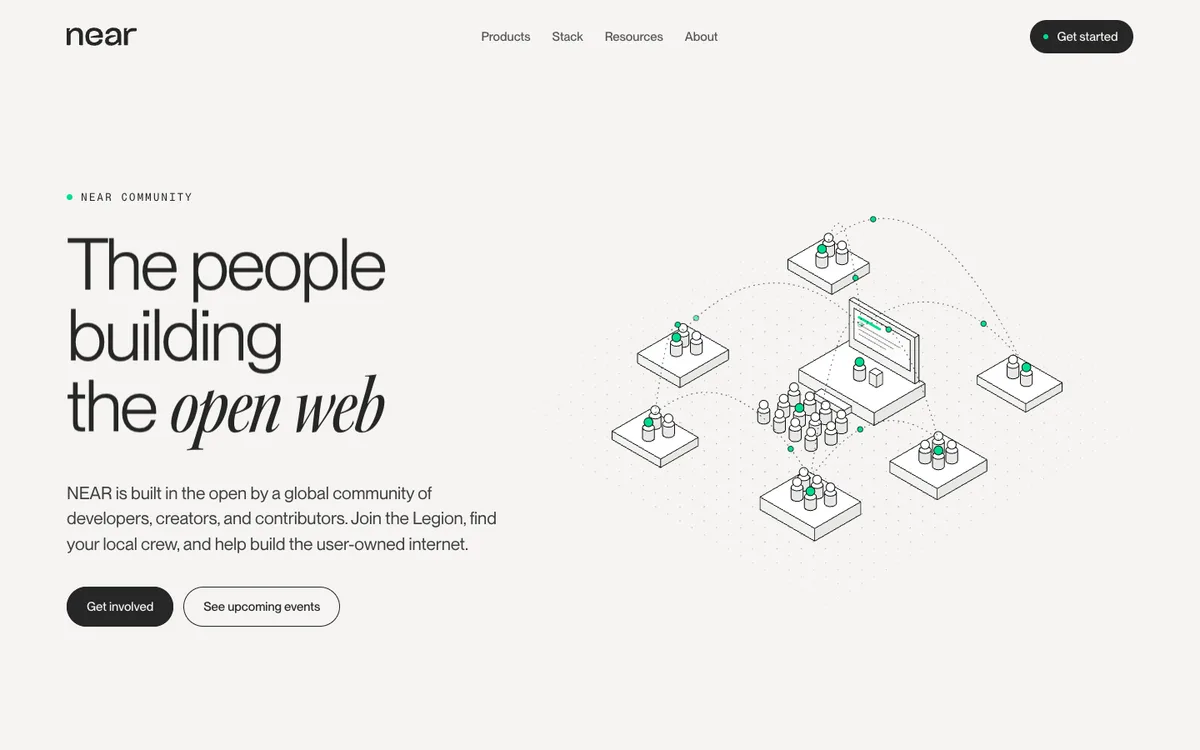
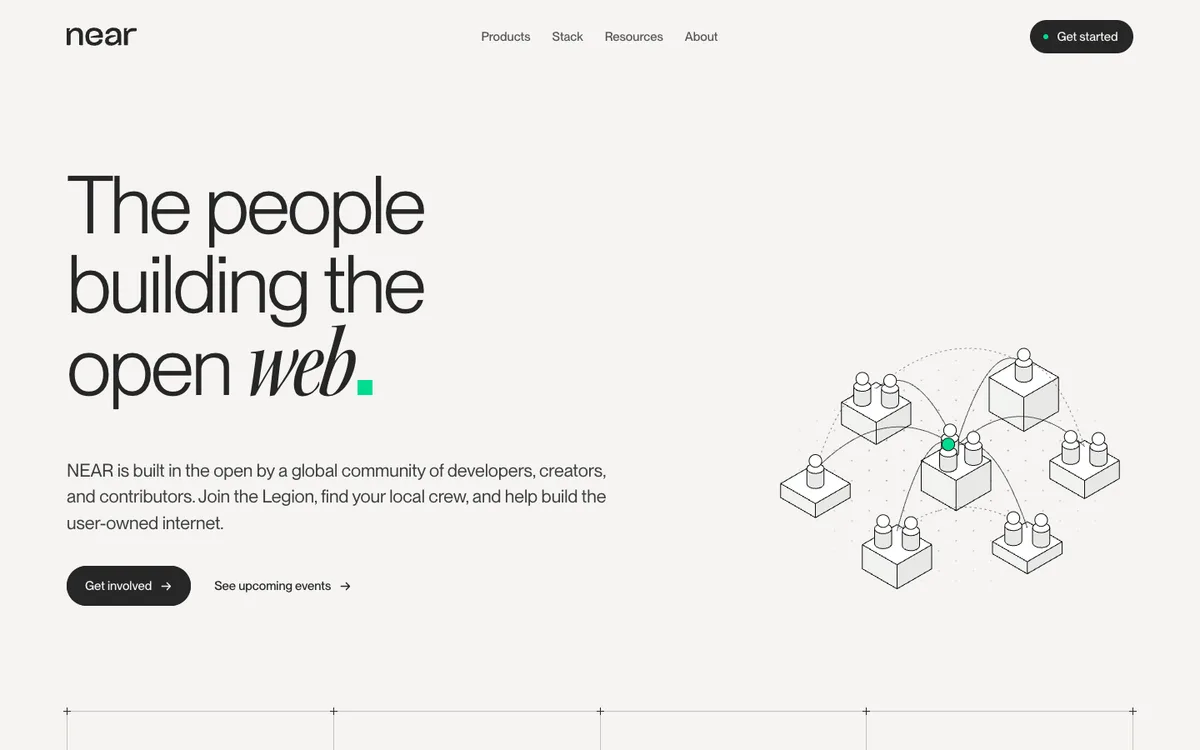
feat(site): make the X versions the menu's pages
Analytics, Economics, History, Community, Solutions and Research now
serve their X (MVP) versions at the plain addresses the header links to.
/<page>-x redirects there (temporary). The versions they replaced are
back at their letters: /analytics-c, /economics-a, /history-c,
/community-b (their old permanent redirects are removed; /about-c now
leads to /history-c).

Version switches, /extra (X featured) and /index (one card per page,
new captures) follow; README updated.

Claude-Session: https://claude.ai/code/session_01BP4thZShxhMPXvDKsf86ix

diff --git a/src/app/(site)/extra/pages.ts b/src/app/(site)/extra/pages.ts
@@ -30,69 +30,69 @@ export const GROUPS: Group[] = [
   {
     id: "analytics",
     title: "Analytics",
-    note: "near.org/analytics in the official pages' hand (the homepage, Blog J), five versions of the doc's lean overview; C is /analytics, in the menu. Sample figures: no live feed yet. X is the MVP from the Nov 19 review: one version, mostly copy, no eyebrows or numerals, no grid by the header, graphics as placeholders for Ali.",
+    note: "near.org/analytics in the official pages' hand (the homepage, Blog J), five versions of the doc's lean overview, and X, the MVP. X is /analytics, in the menu (since Nov 19, 2026; C, the menu's before it, is at /analytics-c). Sample figures: no live feed yet. It is the MVP from the Nov 19 review: one version, mostly copy, no eyebrows or numerals, no grid by the header, graphics as placeholders for Ali.",
     pages: [
       { href: "/analytics-a", n: "A", name: "Analytics · Overview", note: "The doc read literally on the ruled grid: three core stats, the revenue and status cards side by side, the tools, SVRN and the ETPs. Quiet motion: rows draw in, numbers count up once.", tags: ["Ruled grid", "Top 3 stats", "Quiet"], img: "/extra/analytics-a.webp" },
       { href: "/analytics-b", n: "B", name: "Analytics · Instrument panel", note: "Mono and tabular: all five stats in a ticker beside the headline, a revenue chart with a crosshair readout, status.near.org-style uptime bars with tooltips, the tools as a dense table.", tags: ["Ticker", "Chart readouts", "Uptime bars"], img: "/extra/analytics-b.webp" },
-      { href: "/analytics", n: "C", name: "Analytics · Ruled grid", note: "The homepage's ruled grid and Blog J's ruled hero: the doc's page as rows of cells with crosshairs, mono labels and the Kepler accent; revenue and network health side by side on the paper.", tags: ["Ruled grid", "Homepage hand"], img: "/extra/analytics-c.webp", featured: true },
+      { href: "/analytics-c", n: "C", name: "Analytics · Ruled grid", note: "The homepage's ruled grid and Blog J's ruled hero: the doc's page as rows of cells with crosshairs, mono labels and the Kepler accent; revenue and network health side by side on the paper.", tags: ["Ruled grid", "Homepage hand"], img: "/extra/analytics-c.webp" },
       { href: "/analytics-d", n: "D", name: "Analytics · Drawn", note: "NEAR Foundation's isometric hand: the numbers and the products told with line drawings that build as you scroll.", tags: ["Iso drawings", "Foundation hand"], img: "/extra/analytics-d.webp" },
       { href: "/analytics-e", n: "E", name: "Analytics · Editorial", note: "The homepage's big type and dark bands (the Stack, the Council): a calm editorial read with one dark band for the network.", tags: ["Editorial", "Dark band"], img: "/extra/analytics-e.webp" },
-      { href: "/analytics-x", n: "X", name: "Analytics · MVP", note: "D simplified for the MVP: mostly copy, two drawings kept (hero plinth, Go deeper hub) as placeholders, no eyebrows or numerals, the homepage's ruled grid from the stats down (heads, Go deeper and the products included), two dot icons.", tags: ["MVP", "Drawn, simplified", "Grid"], img: "/extra/analytics-x.webp" },
+      { href: "/analytics", n: "X", name: "Analytics · MVP", note: "D simplified for the MVP: mostly copy, two drawings kept (hero plinth, Go deeper hub) as placeholders, no eyebrows or numerals, the homepage's ruled grid from the stats down (heads, Go deeper and the products included), two dot icons.", tags: ["MVP", "Drawn, simplified", "Grid"], img: "/extra/analytics-x.webp", featured: true },
     ],
   },
   {
     id: "community",
     title: "Community",
-    note: "near.org/community from the October 2026 doc (Revamp: Layout & Copy), three versions in the official pages' hand. Sample figures and events until the real ones and the Luma feed are in. B is /community, in the menu. X is the MVP from the Nov 19 review: one version, mostly copy, no eyebrows or numerals, no grid by the header, graphics as placeholders for Ali.",
+    note: "near.org/community from the October 2026 doc (Revamp: Layout & Copy), three versions in the official pages' hand. Sample figures and events until the real ones and the Luma feed are in. X is /community, in the menu (since Nov 19, 2026; B, the menu's before it, is at /community-b). It is the MVP from the Nov 19 review: one version, mostly copy, no eyebrows or numerals, no grid by the header, graphics as placeholders for Ali.",
     pages: [
       { href: "/community-a", n: "A", name: "Community · Ruled grid", note: "The homepage's ruled grid and Blog J's ruled hero: stats, events, the Legion, socials and the ways in as rows of cells with crosshairs.", tags: ["Ruled grid", "Homepage hand"], img: "/extra/community-a.webp" },
-      { href: "/community", n: "B", name: "Community · Drawn", note: "NEAR Foundation's isometric hand: the community as line drawings (people, places, events) that build as you scroll.", tags: ["Iso drawings", "Foundation hand"], img: "/extra/community-b.webp", featured: true },
+      { href: "/community-b", n: "B", name: "Community · Drawn", note: "NEAR Foundation's isometric hand: the community as line drawings (people, places, events) that build as you scroll.", tags: ["Iso drawings", "Foundation hand"], img: "/extra/community-b.webp" },
       { href: "/community-c", n: "C", name: "Community · Editorial", note: "The homepage's big type, photos that bleed and a dark band for the Legion: a warm editorial page.", tags: ["Editorial", "Dark band"], img: "/extra/community-c.webp" },
-      { href: "/community-x", n: "X", name: "Community · MVP", note: "C made more typographic for the MVP: no eyebrows or numerals, no grid near the header, the homepage's ruled grid round the figures, the channels and the ways, an isometric drawing of crews joined by threads in the hero, the site's dot icons on the channels.", tags: ["MVP", "Typographic", "Grid"], img: "/extra/community-x.webp" },
+      { href: "/community", n: "X", name: "Community · MVP", note: "C made more typographic for the MVP: no eyebrows or numerals, no grid near the header, the homepage's ruled grid round the figures, the channels and the ways, an isometric drawing of crews joined by threads in the hero, the site's dot icons on the channels.", tags: ["MVP", "Typographic", "Grid"], img: "/extra/community-x.webp", featured: true },
     ],
   },
   {
     id: "history",
     title: "History",
-    note: "near.org/history (History, \"From 2017 to now\" in the menu), three versions in the official pages' hand. The October 2026 doc has no copy for it: the timeline is near.org/roadmap-history's milestones, the rest adapted from the doc's Anthem Video beats (components/history/content.ts). C is /about, in the menu. X is the MVP from the Nov 19 review: one version, mostly copy, no eyebrows or numerals, no grid by the header, graphics as placeholders for Ali.",
+    note: "near.org/history (History, \"From 2017 to now\" in the menu), three versions in the official pages' hand. The October 2026 doc has no copy for it: the timeline is near.org/roadmap-history's milestones, the rest adapted from the doc's Anthem Video beats (components/history/content.ts). X is /history, in the menu (since Nov 19, 2026; C, the menu's before it, is at /history-c). It is the MVP from the Nov 19 review: one version, mostly copy, no eyebrows or numerals, no grid by the header, graphics as placeholders for Ali.",
     pages: [
       { href: "/history-a", n: "A", name: "History · Ruled grid", note: "The homepage's ruled grid and Blog J's ruled hero: an index of years, then the timeline as a ledger of entries in four chapters, with a green marker that runs down it as you read.", tags: ["Ruled grid", "Ledger", "Homepage hand"], img: "/extra/history-a.webp" },
       { href: "/history-b", n: "B", name: "History · Drawn", note: "NEAR Foundation's isometric hand: ten years as line drawings that build as you scroll, a road of years climbing to now, and today's stack on the dark.", tags: ["Iso drawings", "Foundation hand", "Timeline"], img: "/extra/history-b.webp" },
-      { href: "/history", n: "C", name: "History · Editorial", note: "The homepage's big type: the bw whiteboard bleeding into the origin essay, a sticky year that rolls as each milestone passes, the stack on a dark band.", tags: ["Editorial", "Sticky year", "Dark band"], img: "/extra/history.webp", featured: true },
-      { href: "/history-x", n: "X", name: "History · MVP", note: "MVP from the review: the years as a short sideways story after the homepage's rail (pinned, three at a time: the year on show at the centre with its text, its neighbours faint), a type-only hero, a plain Origin, Today on the ruled grid, no Ahead.", tags: ["MVP", "Rail", "Grid"], img: "/extra/history-x.webp" },
+      { href: "/history-c", n: "C", name: "History · Editorial", note: "The homepage's big type: the bw whiteboard bleeding into the origin essay, a sticky year that rolls as each milestone passes, the stack on a dark band.", tags: ["Editorial", "Sticky year", "Dark band"], img: "/extra/history.webp" },
+      { href: "/history", n: "X", name: "History · MVP", note: "MVP from the review: the years as a short sideways story after the homepage's rail (pinned, three at a time: the year on show at the centre with its text, its neighbours faint), a type-only hero, a plain Origin, Today on the ruled grid, no Ahead.", tags: ["MVP", "Rail", "Grid"], img: "/extra/history-x.webp", featured: true },
     ],
   },
   {
     id: "economics",
     title: "Economics",
-    note: "near.org/economics from the October 2026 doc, three versions in the official pages' hand. Copy verbatim (components/economics/content.ts); no moving figures, by the doc's design: live numbers stay at revenue.near.org. A is /economics, in the menu. X is the MVP from the Nov 19 review: one version, mostly copy, no eyebrows or numerals, no grid by the header, graphics as placeholders for Ali.",
+    note: "near.org/economics from the October 2026 doc, three versions in the official pages' hand. Copy verbatim (components/economics/content.ts); no moving figures, by the doc's design: live numbers stay at revenue.near.org. X is /economics, in the menu (since Nov 19, 2026; A, the menu's before it, is at /economics-a). It is the MVP from the Nov 19 review: one version, mostly copy, no eyebrows or numerals, no grid by the header, graphics as placeholders for Ali.",
     pages: [
-      { href: "/economics", n: "A", name: "Economics · Ruled grid", note: "The homepage's ruled grid: the four facts as the proof strip, the loop drawn as four cells and a ring that lights step by step as you scroll, one asset on the dark band.", tags: ["Ruled grid", "Scroll diagram", "Proof strip"], img: "/extra/economics-a.webp", featured: true },
+      { href: "/economics-a", n: "A", name: "Economics · Ruled grid", note: "The homepage's ruled grid: the four facts as the proof strip, the loop drawn as four cells and a ring that lights step by step as you scroll, one asset on the dark band.", tags: ["Ruled grid", "Scroll diagram", "Proof strip"], img: "/extra/economics-a.webp" },
       { href: "/economics-b", n: "B", name: "Economics · Drawn", note: "NEAR Foundation's isometric hand: the economy as a machine, a flywheel that builds station by station as the four steps scroll past, the facts on plinths, two engines feeding the loop.", tags: ["Iso drawings", "Foundation hand", "Flywheel"], img: "/extra/economics-b.webp" },
       { href: "/economics-c", n: "C", name: "Economics · Editorial", note: "The homepage's big type: the four facts as large figures, the loop as a held dark band where a dot travels a ring as each step comes up.", tags: ["Editorial", "Pinned loop", "Dark band"], img: "/extra/economics-c.webp" },
-      { href: "/economics-x", n: "X", name: "Economics · MVP", note: "A made calm for the MVP: an isometric beside the hero (fees running into the token), the foundation, the loop and the one asset on the homepage's ruled grid, the loop drawn as four isometric stations, the products on a dark band, no eyebrows or numbering.", tags: ["MVP", "Isometric", "Grid"], img: "/extra/economics-x.webp" },
+      { href: "/economics", n: "X", name: "Economics · MVP", note: "A made calm for the MVP: an isometric beside the hero (fees running into the token), the foundation, the loop and the one asset on the homepage's ruled grid, the loop drawn as four isometric stations, the products on a dark band, no eyebrows or numbering.", tags: ["MVP", "Isometric", "Grid"], img: "/extra/economics-x.webp", featured: true },
     ],
   },
   {
     id: "solutions",
     title: "Solutions",
-    note: "near.org/solutions (Solutions, \"Explore use cases\" in the menu) from the October 2026 doc's Solutions Hub copy, three versions in the official pages' hand. Copy verbatim (components/solutions/content.ts); the logo wall uses the partner files in the repo, the rest set as names until their logos are in. X is the MVP from the Nov 19 review: one version, mostly copy, no eyebrows or numerals, no grid by the header, graphics as placeholders for Ali.",
+    note: "near.org/solutions (Solutions, \"Explore use cases\" in the menu) from the October 2026 doc's Solutions Hub copy, three versions in the official pages' hand. Copy verbatim (components/solutions/content.ts); the logo wall uses the partner files in the repo, the rest set as names until their logos are in. X is /solutions, in the menu (since Nov 19, 2026). It is the MVP from the Nov 19 review: one version, mostly copy, no eyebrows or numerals, no grid by the header, graphics as placeholders for Ali.",
     pages: [
       { href: "/solutions-a", n: "A", name: "Solutions · Ruled grid", note: "The homepage's ruled grid as a precise index: the five solutions as ruled rows (number, title, body, builder chips, link) that light as you scroll, Confidential Intents on the dark band, the builders as a ruled logo wall.", tags: ["Ruled grid", "Scroll index", "Logo wall"], img: "/extra/solutions-a.webp" },
       { href: "/solutions-b", n: "B", name: "Solutions · Drawn", note: "NEAR Foundation's isometric hand: each solution a small machine that builds as you scroll (payments crossing chains, agents settling, solvers bidding, a vault rebalancing, an enclave with the host locked out), the private shard under redaction bars.", tags: ["Iso drawings", "Foundation hand", "Builds on scroll"], img: "/extra/solutions-b.webp" },
       { href: "/solutions-c", n: "C", name: "Solutions · Editorial", note: "The homepage's big type and bw photos: the five solutions as chapters whose numeral and title hold while the story passes, the spotlight on a dark band, a quiet logo wall.", tags: ["Editorial", "Sticky chapters", "Dark band"], img: "/extra/solutions-c.webp" },
-      { href: "/solutions-x", n: "X", name: "Solutions · MVP", note: "A cleaned for the MVP: no kickers or numbering, a calm hero, the solutions and builders on the homepage's ruled grid with room to breathe, Confidential Intents as a dark band between them, dot icons on the solutions, two placeholder drawings from B awaiting Ali.", tags: ["MVP", "Grid", "Dark band"], img: "/extra/solutions-x.webp" },
+      { href: "/solutions", n: "X", name: "Solutions · MVP", note: "A cleaned for the MVP: no kickers or numbering, a calm hero, the solutions and builders on the homepage's ruled grid with room to breathe, Confidential Intents as a dark band between them, dot icons on the solutions, two placeholder drawings from B awaiting Ali.", tags: ["MVP", "Grid", "Dark band"], img: "/extra/solutions-x.webp", featured: true },
     ],
   },
   {
     id: "research",
     title: "Research",
-    note: "near.org/research (Research, \"White paper and protocol work\" in the menu; near.org/papers redirects here), three versions in the official pages' hand. Hero and paper list from the October 2026 doc's Technical Papers note, summaries from the live papers page (components/research/content.ts). X is the MVP from the Nov 19 review: one version, mostly copy, no eyebrows or numerals, no grid by the header, graphics as placeholders for Ali.",
+    note: "near.org/research (Research, \"White paper and protocol work\" in the menu; near.org/papers redirects here), three versions in the official pages' hand. Hero and paper list from the October 2026 doc's Technical Papers note, summaries from the live papers page (components/research/content.ts). X is /research, in the menu (since Nov 19, 2026). It is the MVP from the Nov 19 review: one version, mostly copy, no eyebrows or numerals, no grid by the header, graphics as placeholders for Ali.",
     pages: [
       { href: "/research-a", n: "A", name: "Research · Ruled grid", note: "The papers as a library catalogue on the ruled grid: topic chips in the hero's bar, one ruled row per paper (number, title and summary, topic, year, source, read).", tags: ["Ruled grid", "Catalogue", "Topic filter"], img: "/extra/research-a.webp" },
       { href: "/research-b", n: "B", name: "Research · Drawn", note: "NEAR Foundation's isometric hand: the four papers drawn as a stack in the hero, then a card grid where each paper's iso cover builds as you scroll, under a topic filter.", tags: ["Iso drawings", "Paper covers", "Topic filter"], img: "/extra/research-b.webp" },
       { href: "/research-c", n: "C", name: "Research · Editorial", note: "A journal and its contents in the homepage's big type: the White Paper as a cover over a bleeding bw photo, the other papers as a ruled list with huge numerals, the user-owned AI papers on the dark band.", tags: ["Editorial", "Contents list", "Dark band"], img: "/extra/research-c.webp" },
-      { href: "/research-x", n: "X", name: "Research · MVP", note: "A's catalogue made calm for the MVP: a grid-free hero with one placeholder graphic (B's paper stack), the papers as clean ruled rows with real metadata, then keep reading on the same grid, running down into the close; no kickers or numbering.", tags: ["MVP", "Catalogue", "One graphic"], img: "/extra/research-x.webp" },
+      { href: "/research", n: "X", name: "Research · MVP", note: "A's catalogue made calm for the MVP: a grid-free hero with one placeholder graphic (B's paper stack), the papers as clean ruled rows with real metadata, then keep reading on the same grid, running down into the close; no kickers or numbering.", tags: ["MVP", "Catalogue", "One graphic"], img: "/extra/research-x.webp", featured: true },
     ],
   },
   {

diff --git a/src/app/(site)/index/pages.ts b/src/app/(site)/index/pages.ts
@@ -38,53 +38,33 @@ export const FINALS: Final[] = [
   },
   {
     id: "analytics", href: "/analytics", name: "Analytics",
-    note: "Ruled grid (Analytics C): the homepage's ruled grid and Blog J's ruled hero, the five core stats, revenue and network health side by side, the tools, SVRN and the ETPs. Sample figures until the live feed lands.",
-    tags: ["Ruled grid", "Homepage hand", "Sample figures"], img: "/index/analytics.webp",
-  },
-  {
-    id: "analytics-x", href: "/analytics-x", name: "Analytics · MVP (X)",
-    note: "The Nov 19 review's MVP: D simplified, mostly copy, the plinth beside the hero, then one continuous ruled grid with spacer rows: the five stats, revenue as sixteen weekly bars beside network health, Go deeper with its hub, SVRN and the ETPs.",
-    tags: ["MVP", "Continuous grid", "Weekly bars"], img: "/index/analytics-x.webp",
+    note: "MVP (X, the Nov 19 review): D simplified, mostly copy, the plinth beside the hero, then one continuous ruled grid with spacer rows: the five stats, revenue as sixteen weekly bars beside network health, Go deeper with its hub, SVRN and the ETPs.",
+    tags: ["MVP", "Continuous grid", "Weekly bars"], img: "/index/analytics.webp",
   },
   {
     id: "economics", href: "/economics", name: "Economics",
-    note: "Ruled grid (Economics A): the four structural facts as the proof strip, the loop drawn as four cells and a ring that lights step by step as you scroll, the two revenue sources, one asset on the dark band, the homepage's close.",
-    tags: ["Ruled grid", "Scroll diagram", "Homepage close"], img: "/index/economics.webp",
-  },
-  {
-    id: "economics-x", href: "/economics-x", name: "Economics · MVP (X)",
-    note: "The MVP: an isometric beside the hero (fees running into the token), the foundation, the loop and the one asset on the ruled grid, the loop drawn as four isometric stations that light as you scroll, the two products on a dark band.",
-    tags: ["MVP", "Isometric", "Ruled grid"], img: "/index/economics-x.webp",
+    note: "MVP (X, the Nov 19 review): an isometric beside the hero (fees running into the token), the foundation, the loop and the one asset on the ruled grid, the loop drawn as four isometric stations that light as you scroll, the two products on a dark band.",
+    tags: ["MVP", "Isometric", "Ruled grid"], img: "/index/economics.webp",
   },
   {
     id: "history", href: "/history", name: "History",
-    note: "Editorial (History C): huge years, the black-and-white whiteboard opening the origin essay, a sticky year that rolls as each milestone passes, the stack on a dark band, the homepage's close.",
-    tags: ["Editorial", "Sticky year", "Homepage close"], img: "/index/history.webp",
-  },
-  {
-    id: "history-x", href: "/history-x", name: "History · MVP (X)",
-    note: "The MVP: a type-only hero, a plain Origin, the years as a short sideways story after the homepage's rail (pinned, three at a time: the year on show at the centre with its text, its neighbours faint), Today on the ruled grid.",
-    tags: ["MVP", "Sideways rail", "Ruled grid"], img: "/index/history-x.webp",
+    note: "MVP (X, the Nov 19 review): a type-only hero, a plain Origin, the years as a short sideways story after the homepage's rail (pinned, three at a time: the year on show at the centre with its text, its neighbours faint), Today on the ruled grid.",
+    tags: ["MVP", "Sideways rail", "Ruled grid"], img: "/index/history.webp",
   },
   {
     id: "community", href: "/community", name: "Community",
-    note: "Drawn (Community B): NEAR Foundation's isometric hand, the community as line drawings (people, places, events) that build as you scroll, then the homepage's close with the newsletter. Sample figures and events until the Luma feed is in.",
-    tags: ["Iso drawings", "Foundation hand", "Homepage close"], img: "/index/community.webp",
+    note: "MVP (X, the Nov 19 review): C made more typographic, an isometric drawing of crews joined by threads in the hero, the figures, channels and ways framed by the homepage's grid, the Legion on the dark band, the channels with the site's dot icons.",
+    tags: ["MVP", "Typographic", "Dot icons"], img: "/index/community.webp",
   },
   {
-    id: "community-x", href: "/community-x", name: "Community · MVP (X)",
-    note: "The MVP: C made more typographic, an isometric drawing of crews joined by threads in the hero, the figures, channels and ways framed by the homepage's grid, the Legion on the dark band, the channels with the site's dot icons.",
-    tags: ["MVP", "Typographic", "Dot icons"], img: "/index/community-x.webp",
+    id: "solutions", href: "/solutions", name: "Solutions",
+    note: "MVP (X, the Nov 19 review): a calm hero beside B's hub, then one continuous ruled grid with spacer rows: the proof strip, the solutions, Confidential Intents as a dark band off the grid, the builders, the grid running down into the close.",
+    tags: ["MVP", "Continuous grid", "Dark band"], img: "/index/solutions.webp",
   },
   {
-    id: "solutions-x", href: "/solutions-x", name: "Solutions · MVP (X)",
-    note: "The MVP: a calm hero beside B's hub, then one continuous ruled grid with spacer rows: the proof strip, the solutions, Confidential Intents as a dark band off the grid, the builders, the grid running down into the close.",
-    tags: ["MVP", "Continuous grid", "Dark band"], img: "/index/solutions-x.webp",
-  },
-  {
-    id: "research-x", href: "/research-x", name: "Research · MVP (X)",
-    note: "The MVP: A without the grid by the header, B's paper stack as the hero's placeholder drawing, the catalogue in two columns with a topic filter, keep reading on the same grid, the grid running into the homepage's close.",
-    tags: ["MVP", "Catalogue", "Topic filter"], img: "/index/research-x.webp",
+    id: "research", href: "/research", name: "Research",
+    note: "MVP (X, the Nov 19 review): A without the grid by the header, B's paper stack as the hero's placeholder drawing, the catalogue in two columns with a topic filter, keep reading on the same grid, the grid running into the homepage's close.",
+    tags: ["MVP", "Catalogue", "Topic filter"], img: "/index/research.webp",
   },
   {
     id: "contact", href: "/contact", name: "Contact",

diff --git a/next.config.ts b/next.config.ts
@@ -14,18 +14,17 @@ const nextConfig: NextConfig = {
     return ["/admin/:path*", "/api/:path*", "/cms/:path*", "/extra", "/index", "/home-v:n", "/post-:v(a|b|c|d)", "/blog-index-:v", "/analytics-:v", "/community-:v", "/history-:v", "/economics-:v", "/solutions-:v", "/research-:v", "/brand-:v", "/foundation-:v"]
       .map((source) => ({ source, headers: noindex }));
   },
-  // Old addresses of pages that moved: Foundation E is the Foundation page now (/near-foundation; versions A–D and F were removed), the blog's directions A–L were removed (J is /blog), and so were homes v1–v6 (v7 is "/") and the first Analytics C; Analytics C is /analytics (B is back at /analytics-b), Economics A is /economics, History C is /history (it was /about; A and B are /history-a, -b), Community B is /community
+  // Old addresses of pages that moved: Foundation E is the Foundation page now (/near-foundation; versions A–D and F were removed), the blog's directions A–L were removed (J is /blog), and so were homes v1–v6 (v7 is "/") and the first Analytics C; History was /about (A and B are /history-a, -b). Since Nov 19, 2026 the menu's Analytics, Economics, History, Community, Solutions and Research are the X versions at the plain addresses (/<page>-x leads there); the versions they replaced are back at their letters (Analytics C /analytics-c, Economics A /economics-a, History C /history-c, Community B /community-b)
   async redirects() {
     return [
       { source: "/foundation", destination: "/near-foundation", permanent: true },
       { source: "/foundation-:v([a-f])", destination: "/near-foundation", permanent: true },
       { source: "/blog-:v([a-l])", destination: "/blog", permanent: true },
-      { source: "/analytics-c", destination: "/analytics", permanent: true },
-      { source: "/economics-a", destination: "/economics", permanent: true },
       { source: "/about", destination: "/history", permanent: true },
-      { source: "/about-c", destination: "/history", permanent: true },
+      { source: "/about-c", destination: "/history-c", permanent: true },
       { source: "/about-:v(a|b)", destination: "/history-:v", permanent: true },
-      { source: "/community-b", destination: "/community", permanent: true },
+      // the MVP versions X are the menu's pages now, at the plain addresses; their -x addresses still lead to them (not permanent: still exploring)
+      { source: "/:page(analytics|community|history|economics|solutions|research)-x", destination: "/:page", permanent: false },
       { source: "/home-v:v([1-6])", destination: "/", permanent: true },
       { source: "/home-v:v([1-6])/:path*", destination: "/", permanent: true },
     ];

diff --git a/src/app/(site)/history/page.tsx b/src/app/(site)/history/page.tsx
@@ -1,12 +1,14 @@
 import type { Metadata } from "next";
 import { og } from "@/lib/site";
 import { BlogShell } from "@/components/v3/blog/BlogShell";
-import { HistoryC } from "@/components/history/c/HistoryC";
+import { HistoryX } from "@/components/history/x/HistoryX";
 import { HistorySwitch } from "@/components/history/HistorySwitch";
 import { CLOSE, HERO } from "@/components/history/content";
 import { CloseScene } from "@/components/shared/CloseScene";
 
-// near.org/history: the History page, version C: "Editorial" (components/history/c), on v3's shell, closing with the homepage's scene. Copy: components/history/content.ts.
+// near.org/history (History), version X: "MVP", the one in the menu (/history-x redirects here) (components/history/x; A's ruled grid with C's rolling year, after the Nov 19 2026 review), on v3's shell,
+// closing with the homepage's scene, the ruled grid running down into it. Copy: components/history/content.ts.
+// [[TBD: graphic by Ali]] the closing scene's meadow (CloseScene's default photo) is the homepage's, a placeholder here.
 export const metadata: Metadata = {
   title: "History",
   description: HERO.sub,
@@ -14,6 +16,6 @@ export const metadata: Metadata = {
   openGraph: og({ url: "/history" }),
 };
 
-export default function AboutPage() {
-  return <><BlogShell home="/"><HistoryC /><CloseScene sub={CLOSE.sub} primary={CLOSE.primary} secondary={CLOSE.secondary} /></BlogShell><HistorySwitch on="c" /></>;
+export default function HistoryPage() {
+  return <><BlogShell home="/"><HistoryX /><CloseScene sub={CLOSE.sub} primary={CLOSE.primary} secondary={CLOSE.secondary} ruled /></BlogShell><HistorySwitch on="x" /></>;
 }

diff --git a/src/app/(site)/community/page.tsx b/src/app/(site)/community/page.tsx
@@ -1,12 +1,13 @@
 import type { Metadata } from "next";
 import { og } from "@/lib/site";
 import { BlogShell } from "@/components/v3/blog/BlogShell";
-import { CommunityB } from "@/components/community/b/CommunityB";
+import { CommunityX } from "@/components/community/x/CommunityX";
 import { CommunitySwitch } from "@/components/community/CommunitySwitch";
 import { CLOSE, HERO } from "@/components/community/content";
 import { CloseScene } from "@/components/shared/CloseScene";
 
-// near.org/community: the Community page, version B: "Drawn" (components/community/b), on v3's shell, closing with the homepage's scene. Copy: components/community/content.ts.
+// near.org/community, version X: "MVP", the one in the menu (/community-x redirects here) (components/community/x), C made more typographic after the Nov 19, 2026 review; on v3's shell, closing with the
+// homepage's scene. Copy: components/community/content.ts (the doc).
 export const metadata: Metadata = {
   title: "Community",
   description: HERO.sub,
@@ -15,5 +16,5 @@ export const metadata: Metadata = {
 };
 
 export default function CommunityPage() {
-  return <><BlogShell home="/"><CommunityB /><CloseScene sub={CLOSE.sub} primary={CLOSE.primary} secondary={CLOSE.secondary} newsletter={CLOSE.newsletter} /></BlogShell><CommunitySwitch on="b" /></>;
+  return <><BlogShell home="/"><CommunityX /><CloseScene sub={CLOSE.sub} primary={CLOSE.primary} secondary={CLOSE.secondary} newsletter={CLOSE.newsletter} /></BlogShell><CommunitySwitch on="x" /></>;
 }

diff --git a/src/app/(site)/economics/page.tsx b/src/app/(site)/economics/page.tsx
@@ -1,12 +1,13 @@
 import type { Metadata } from "next";
 import { og } from "@/lib/site";
 import { BlogShell } from "@/components/v3/blog/BlogShell";
-import { EconomicsA } from "@/components/economics/a/EconomicsA";
+import { EconomicsX } from "@/components/economics/x/EconomicsX";
 import { EconomicsSwitch } from "@/components/economics/EconomicsSwitch";
 import { CLOSE, HERO } from "@/components/economics/content";
 import { CloseScene } from "@/components/shared/CloseScene";
 
-// near.org/economics: the Economics page, version A: "Ruled grid" (components/economics/a), on v3's shell, closing with the homepage's scene. Copy: components/economics/content.ts.
+// near.org/economics, version X: "MVP", the one in the menu (/economics-x redirects here) (components/economics/x), A made calm after the Nov 19 2026 review, on v3's shell, closing with the homepage's
+// scene, the ruled grid running down into it. Copy: components/economics/content.ts.
 export const metadata: Metadata = {
   title: "Economics",
   description: HERO.sub,
@@ -15,5 +16,5 @@ export const metadata: Metadata = {
 };
 
 export default function EconomicsPage() {
-  return <><BlogShell home="/"><EconomicsA /><CloseScene sub={CLOSE.sub} primary={CLOSE.primary} secondary={CLOSE.secondary} ruled /></BlogShell><EconomicsSwitch on="a" /></>;
+  return <><BlogShell home="/"><EconomicsX /><CloseScene sub={CLOSE.sub} primary={CLOSE.primary} secondary={CLOSE.secondary} ruled /></BlogShell><EconomicsSwitch on="x" /></>;
 }

diff --git a/src/app/(site)/solutions/page.tsx b/src/app/(site)/solutions/page.tsx
@@ -1,17 +1,20 @@
 import type { Metadata } from "next";
+import { og } from "@/lib/site";
 import { BlogShell } from "@/components/v3/blog/BlogShell";
 import { SolutionsX } from "@/components/solutions/x/SolutionsX";
 import { SolutionsSwitch } from "@/components/solutions/SolutionsSwitch";
 import { CLOSE, META } from "@/components/solutions/content";
 import { CloseScene } from "@/components/shared/CloseScene";
 
-// near.org/solutions, version X: "MVP" (components/solutions/x), version A cleaned after the Nov 19 2026 review, on v3's shell, closing with the
+// near.org/solutions, version X: "MVP", the one in the menu (/solutions-x redirects here) (components/solutions/x), version A cleaned after the Nov 19 2026 review, on v3's shell, closing with the
 // homepage's scene. Copy: components/solutions/content.ts.
 export const metadata: Metadata = {
   title: "Solutions",
   description: META.description,
+  alternates: { canonical: "/solutions" },
+  openGraph: og({ url: "/solutions" }),
 };
 
-export default function SolutionsXPage() {
+export default function SolutionsPage() {
   return <><BlogShell home="/"><SolutionsX /><CloseScene sub={CLOSE.sub} primary={CLOSE.primary} secondary={CLOSE.secondary} ruled /></BlogShell><SolutionsSwitch on="x" /></>;
 }

diff --git a/src/app/(site)/research/page.tsx b/src/app/(site)/research/page.tsx
@@ -1,17 +1,20 @@
 import type { Metadata } from "next";
+import { og } from "@/lib/site";
 import { BlogShell } from "@/components/v3/blog/BlogShell";
 import { ResearchX } from "@/components/research/x/ResearchX";
 import { ResearchSwitch } from "@/components/research/ResearchSwitch";
 import { CLOSE, HERO } from "@/components/research/content";
 import { CloseScene } from "@/components/shared/CloseScene";
 
-// near.org/research, version X: "MVP" (components/research/x), A's catalogue made calm after the Nov 19, 2026 review, on v3's shell, closing with the
+// near.org/research, version X: "MVP", the one in the menu (/research-x redirects here) (components/research/x), A's catalogue made calm after the Nov 19, 2026 review, on v3's shell, closing with the
 // homepage's scene. Copy: components/research/content.ts.
 export const metadata: Metadata = {
   title: "Research",
   description: HERO.sub,
+  alternates: { canonical: "/research" },
+  openGraph: og({ url: "/research" }),
 };
 
-export default function ResearchXPage() {
+export default function ResearchPage() {
   return <><BlogShell home="/"><ResearchX /><CloseScene sub={CLOSE.sub} primary={CLOSE.primary} secondary={CLOSE.secondary} ruled /></BlogShell><ResearchSwitch on="x" /></>;
 }

diff --git a/src/app/(site)/analytics/page.tsx b/src/app/(site)/analytics/page.tsx
@@ -1,11 +1,11 @@
 import type { Metadata } from "next";
 import { og } from "@/lib/site";
 import { BlogShell } from "@/components/v3/blog/BlogShell";
-import { AnalyticsC } from "@/components/analytics/c/AnalyticsC";
+import { AnalyticsX } from "@/components/analytics/x/AnalyticsX";
 import { AnalyticsSwitch } from "@/components/analytics/AnalyticsSwitch";
 import { HERO } from "@/components/analytics/content";
 
-// near.org/analytics, version C: "Ruled grid" (components/analytics/c), on v3's shell. Copy and figures: components/analytics/content.ts.
+// near.org/analytics, version X: "MVP", the one in the menu (/analytics-x redirects here), D simplified after the Nov 19 review (components/analytics/x), on v3's shell. Copy and figures: components/analytics/content.ts.
 export const metadata: Metadata = {
   title: "Analytics",
   description: HERO.sub,
@@ -14,5 +14,5 @@ export const metadata: Metadata = {
 };
 
 export default function AnalyticsPage() {
-  return <><BlogShell home="/"><AnalyticsC /></BlogShell><AnalyticsSwitch on="c" /></>;
+  return <><BlogShell home="/"><AnalyticsX /></BlogShell><AnalyticsSwitch on="x" /></>;
 }

diff --git a/src/components/analytics/AnalyticsSwitch.tsx b/src/components/analytics/AnalyticsSwitch.tsx
@@ -1,13 +1,13 @@
-// The switch between the Analytics page's versions (top left): plain links to /analytics-a, /analytics-b, /analytics (C, the one in the menu), D, E and X (MVP). Same pill as the Foundation switch.
+// The switch between the Analytics page's versions (top left): plain links to /analytics-a, -b, -c, -d, -e and /analytics (X, the MVP, the one in the menu). Same pill as the Foundation switch.
 import "../v4/revenue/switch.css";
 
 export const ANALYTICS_VERSIONS = [
   { k: "a", href: "/analytics-a", name: "Overview" },
   { k: "b", href: "/analytics-b", name: "Instrument panel" },
-  { k: "c", href: "/analytics", name: "Ruled grid" },
+  { k: "c", href: "/analytics-c", name: "Ruled grid" },
   { k: "d", href: "/analytics-d", name: "Drawn" },
   { k: "e", href: "/analytics-e", name: "Editorial" },
-  { k: "x", href: "/analytics-x", name: "MVP" },
+  { k: "x", href: "/analytics", name: "MVP" },
 ] as const;
 
 export function AnalyticsSwitch({ on }: { on: (typeof ANALYTICS_VERSIONS)[number]["k"] }) {

diff --git a/src/app/(site)/community-b/page.tsx b/src/app/(site)/community-b/page.tsx
@@ -1,0 +1,16 @@
+import type { Metadata } from "next";
+import { BlogShell } from "@/components/v3/blog/BlogShell";
+import { CommunityB } from "@/components/community/b/CommunityB";
+import { CommunitySwitch } from "@/components/community/CommunitySwitch";
+import { CLOSE, HERO } from "@/components/community/content";
+import { CloseScene } from "@/components/shared/CloseScene";
+
+// near.org/community: the Community page, version B (the menu's until Nov 19, 2026; now at /community-b, X is in the menu): "Drawn" (components/community/b), on v3's shell, closing with the homepage's scene. Copy: components/community/content.ts.
+export const metadata: Metadata = {
+  title: "Community",
+  description: HERO.sub,
+};
+
+export default function CommunityBPage() {
+  return <><BlogShell home="/"><CommunityB /><CloseScene sub={CLOSE.sub} primary={CLOSE.primary} secondary={CLOSE.secondary} newsletter={CLOSE.newsletter} /></BlogShell><CommunitySwitch on="b" /></>;
+}

diff --git a/src/app/(site)/economics-a/page.tsx b/src/app/(site)/economics-a/page.tsx
@@ -1,0 +1,16 @@
+import type { Metadata } from "next";
+import { BlogShell } from "@/components/v3/blog/BlogShell";
+import { EconomicsA } from "@/components/economics/a/EconomicsA";
+import { EconomicsSwitch } from "@/components/economics/EconomicsSwitch";
+import { CLOSE, HERO } from "@/components/economics/content";
+import { CloseScene } from "@/components/shared/CloseScene";
+
+// near.org/economics: the Economics page, version A (the menu's until Nov 19, 2026; now at /economics-a, X is in the menu): "Ruled grid" (components/economics/a), on v3's shell, closing with the homepage's scene. Copy: components/economics/content.ts.
+export const metadata: Metadata = {
+  title: "Economics",
+  description: HERO.sub,
+};
+
+export default function EconomicsAPage() {
+  return <><BlogShell home="/"><EconomicsA /><CloseScene sub={CLOSE.sub} primary={CLOSE.primary} secondary={CLOSE.secondary} ruled /></BlogShell><EconomicsSwitch on="a" /></>;
+}
